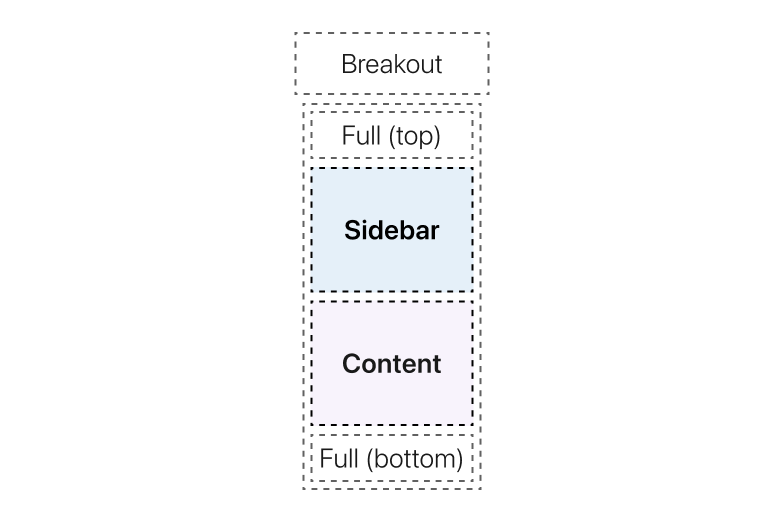
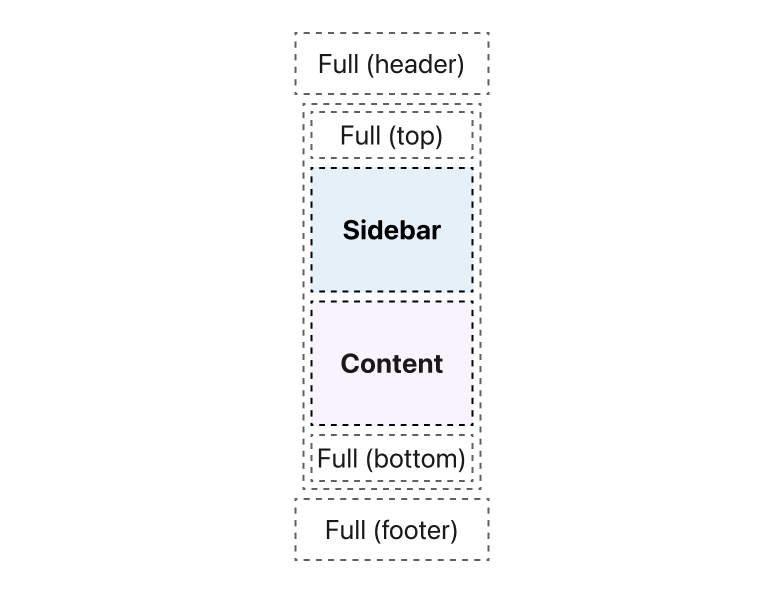
updated Template docs to reflect new recommendations

diff --git a/src/components/Template/Template.stories.tsx b/src/components/Template/Template.stories.tsx
@@ -195,11 +195,9 @@ export const WithControls: Story = {
     const { variant } = args;
     return (
       <Template id="template-with-controls" {...args}>
-        <TemplateHeader>
-          <TemplateBreakout>
-            <Placeholder variant="short">Breakout</Placeholder>
-          </TemplateBreakout>
-        </TemplateHeader>
+        <TemplateFull>
+          <Placeholder variant="short">Full (header)</Placeholder>
+        </TemplateFull>
         <TemplateMain border="4px dashed" borderColor="ui.border.hover" p="s">
           <TemplateFull>
             <Placeholder variant="short">Full (top)</Placeholder>
@@ -221,6 +219,9 @@ export const WithControls: Story = {
             <Placeholder variant="short">Full (bottom)</Placeholder>
           </TemplateFull>
         </TemplateMain>
+        <TemplateFull>
+          <Placeholder variant="short">Full (footer)</Placeholder>
+        </TemplateFull>
       </Template>
     );
   },
